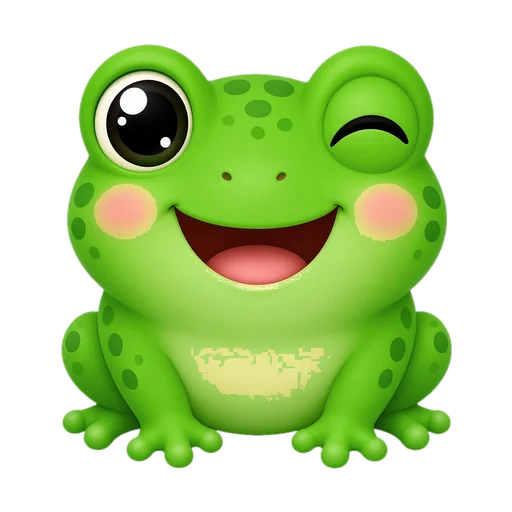
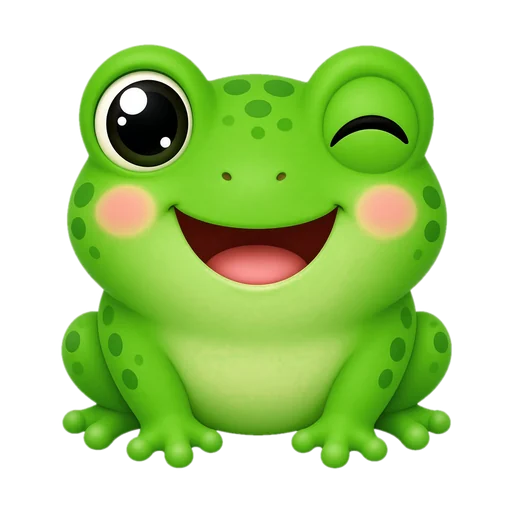
Keks-Studie Set F: weiche Umfärbung ohne Banding, Nahaufnahmen

Changed region(s): [[0.375, 0.6562, 0.625, 0.7812], [0.6875, 0.4375, 0.7188, 0.4688]]

diff --git a/design-concepts/cookies/art/prepare.py b/design-concepts/cookies/art/prepare.py
@@ -40,21 +40,25 @@ def key(name, strip):
   return a, alpha
 
 def recolour(a, mode):
+  """Soft hue/saturation push toward the game's region colour; weight w fades in with saturation and hue distance (no banding)."""
   h, s, v = hsv(a)
-  if mode == 'pink':   # pale pig → game Pink (#f45bb8, hue ≈ 323°)
-    sel = ((h > 300) | (h < 25)) & (s > .08) & (v > .35)
-    nh = np.where(sel, 324 + (h - np.where(h > 180, 345, -15)) * .2, h); ns = np.where(sel, np.clip(s * 1.9 + .08, 0, .62), s); nv = np.where(sel, v * .98, v)
-  elif mode == 'red':  # orange fox fur → game Red (#e8263f, hue ≈ 352°) so it never reads as the orange lion
-    sel = (h > 2) & (h < 38) & (s > .45) & (v > .3)
-    nh = np.where(sel, (h - 24) % 360, h); ns = np.where(sel, np.clip(s * 1.05, 0, 1), s); nv = np.where(sel, v * .95, v)
-  elif mode == 'green':   # light lime frog → closer to game Green (#2fc24e)
-    sel = (h > 60) & (h < 160) & (s > .2)
-    nh = np.where(sel, h + (125 - h) * .35, h); ns = np.where(sel, np.clip(s * 1.3, 0, .9), s); nv = np.where(sel, v * .95, v)
-  elif mode == 'purple':  # lavender owl → a bit closer to game Purple (#8f45ff)
-    sel = (h > 245) & (h < 300) & (s > .12)
-    nh = np.where(sel, h + (268 - h) * .4, h); ns = np.where(sel, np.clip(s * 1.35, 0, .85), s); nv = nv = np.where(sel, v * .97, v)
+  band = lambda x, lo, hi, f: np.clip(np.minimum(x - lo, hi - x) / f, 0, 1)
+  hd = lambda c: (h - c + 180) % 360 - 180              # signed hue distance to c
+  if mode == 'pink':    # pale pig → game Pink (#f45bb8, hue ≈ 323°)
+    w = band(hd(345), -45, 45, 15) * np.clip((s - .03) / .12, 0, 1) * np.clip((v - .25) / .2, 0, 1)
+    nh, ns, nv = 324 + hd(345) * .2, np.clip(s * 1.9 + .08, 0, .62), v * .98
+  elif mode == 'red':   # orange fox fur → game Red (#e8263f, hue ≈ 352°), never confused with the orange lion
+    w = band(h, 2, 40, 6) * np.clip((s - .35) / .15, 0, 1) * np.clip((v - .25) / .15, 0, 1)
+    nh, ns, nv = h - 24, s * 1.05, v * .95
+  elif mode == 'green': # light lime frog → closer to game Green (#2fc24e)
+    w = band(h, 50, 175, 15) * np.clip((s - .1) / .25, 0, 1)
+    nh, ns, nv = h + (125 - h) * .35, np.clip(s * 1.3, 0, .9), v * .95
+  elif mode == 'purple':# lavender owl → closer to game Purple (#8f45ff)
+    w = band(h, 238, 305, 12) * np.clip((s - .06) / .15, 0, 1)
+    nh, ns, nv = h + (268 - h) * .4, np.clip(s * 1.35, 0, .85), v * .97
   else: return a
-  return from_hsv(nh, ns, nv)
+  out = from_hsv(nh % 360, np.clip(ns, 0, 1), np.clip(nv, 0, 1))
+  return a[..., :3] * (1 - w[..., None]) + out * w[..., None]
 
 def flood(passable):  # region of `passable` connected to the image border (iterative constrained dilation)
   r = np.zeros_like(passable); r[0, :] = passable[0, :]; r[-1, :] = passable[-1, :]; r[:, 0] = passable[:, 0]; r[:, -1] = passable[:, -1]
